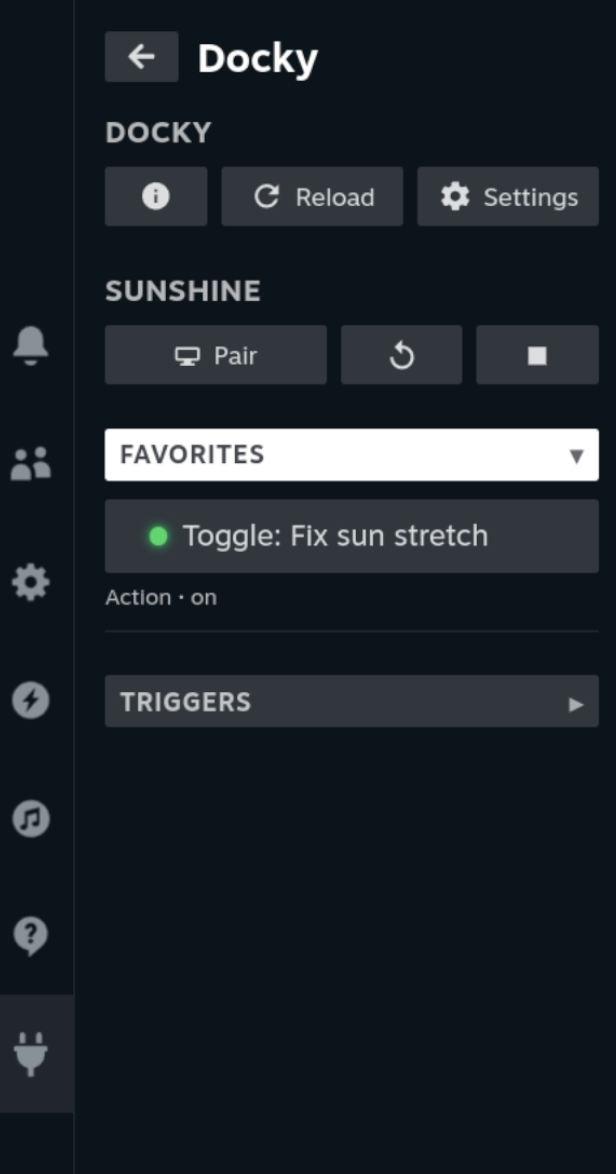
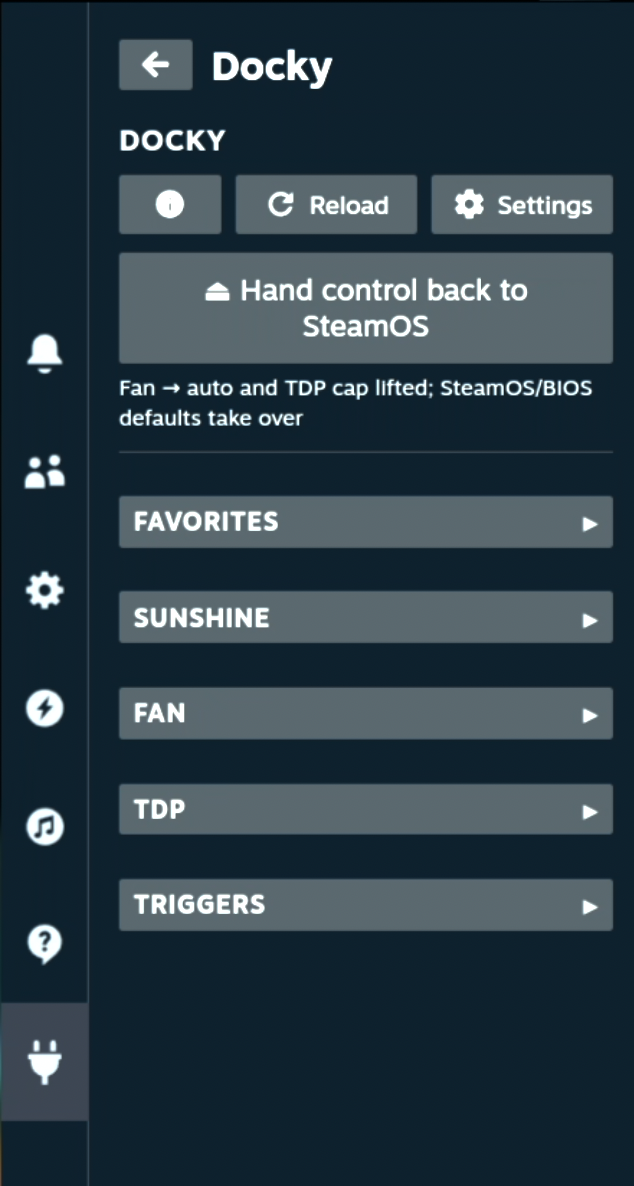
docs: refresh README screenshots for the current panel
- panel.png: new layout (Favorites first, collapsible Sunshine, Fan/TDP/
  Triggers) — the old shot predated Fan/TDP and showed the always-open
  Sunshine section on top. Update the hero caption to match.
- add sunshine-panel.png: the expanded Sunshine section (start/pair,
  composition, HDR, keep-alive) — showcases the new HDR toggle.
- add decky-menu.png: Docky in the Decky menu with the enlarged icon.

diff --git a/README.md b/README.md
@@ -16,7 +16,7 @@ Everything is built and edited in the Quick Access panel — no config files, no
 Desktop Mode required.
 
 <p align="center">
-  <img src="docs/images/panel.png" alt="Docky in the Steam Deck Quick Access menu — Favorites with a live status LED" width="300">
+  <img src="docs/images/panel.png" alt="Docky in the Steam Deck Quick Access menu — Favorites first, collapsible sections" width="300">
 </p>
 
 ```
@@ -81,6 +81,16 @@ Trigger— an event (dock/undock, AC, controller, resume, startup) → a Mode
     <td valign="top" align="center">
       <img src="docs/images/tdp.png" width="240"><br>
       <sub>TDP — manual watts, "keep enforced", profiles</sub>
+    </td>
+  </tr>
+  <tr>
+    <td valign="top" align="center">
+      <img src="docs/images/sunshine-panel.png" width="240"><br>
+      <sub>Sunshine — start/pair, composition, HDR, keep-alive</sub>
+    </td>
+    <td valign="top" align="center">
+      <img src="docs/images/decky-menu.png" width="300"><br>
+      <sub>Docky in the Decky menu (Quick Access → Decky)</sub>
     </td>
   </tr>
 </table>